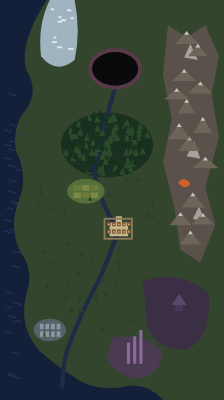
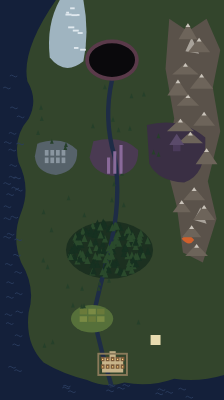
Move the world map's city to the south coast so a run reads as the long road north to the Titan, and repaint the map to match

diff --git a/art/concepts/world-map/index.html b/art/concepts/world-map/index.html
@@ -51,7 +51,7 @@ section p{margin:0 0 10px;color:var(--mute);font-size:13px}
 <body>
 <main>
 <h1>The world map</h1>
-<p class="sub">First shown when the Titan falls at the end of A Tale of Valor's prologue, then between acts. North is up. The city (unnamed) is the centre, Wild's Edge just north of it, and the river runs out of the Titan's crater, through the forest and the city, to the Necropolis at its mouth. The layout is the same in every treatment; only the drawing changes. Docs: <code>docs/world-map.md</code>.</p>
+<p class="sub">First shown when the Titan falls at the end of A Tale of Valor's prologue, then between acts. North is up. The city (unnamed) is on the south coast where the run starts, Wild's Edge just north of it, and every other place lies on the road north to the Titan's crater. The river runs out of the crater, through the forest, down to the city at its mouth. The layout is the same in every treatment; only the drawing changes. Docs: <code>docs/world-map.md</code>.</p>
 <div class="names" id="moments">Moment: </div>
 <div class="names" id="cityNames">The city: </div>
 <div class="names" id="paints">Painting (A): </div>
@@ -61,27 +61,27 @@ section p{margin:0 0 10px;color:var(--mute);font-size:13px}
 <script>
 const ART = '../../../';
 const W = 360, H = 640;
-let CRATER = { x: 185, y: 110 };
-let CITY = { x: 190, y: 366 };
+let CRATER = { x: 180, y: 96 };
+let CITY = { x: 181, y: 582 };
 // seal: one of the six base seals. cycle: the Cycle that grants it. lost: the Cycle it's lost in.
 let PLACES = [
-  { id: 'wildsEdge', name: "Wild's Edge", x: 138, y: 304, seal: true, lost: 3, anchor: 'end', lx: 14, ly: -10 },
-  { id: 'forbiddenForest', name: 'Forbidden Forest', x: 172, y: 232, seal: true, ly: -40 },
-  { id: 'stormCoast', name: 'Storm Coast', x: 52, y: 322, seal: true, lx: 2, anchor: 'start', ly: 26 },
-  { id: 'moltenFoundry', name: 'Molten Foundry', x: 296, y: 292, seal: true, anchor: 'end', lx: 8, ly: 22 },
-  { id: 'necropolis', name: 'Necropolis', x: 80, y: 528, seal: true, ly: 26 },
-  { id: 'blightedShrine', name: 'Blighted Shrine', x: 288, y: 492, seal: true, anchor: 'end', lx: 10, ly: 28 },
-  { id: 'holySanctum', name: 'Holy Sanctum', x: 216, y: 440, cycle: 2, anchor: 'start', lx: 12, ly: 4 },
-  { id: 'frozenReach', name: 'Frozen Reach', x: 84, y: 54, cycle: 3, ly: 34 },
-  { id: 'dreamingSpires', name: 'Dreaming Spires', x: 214, y: 566, cycle: 3, ly: 30 },
-  { id: 'thunderAerie', name: 'Thunder Aerie', x: 306, y: 112, cycle: 4, anchor: 'end', lx: 4, ly: 26 },
+  { id: 'wildsEdge', name: "Wild's Edge", x: 148, y: 510, seal: true, lost: 3, anchor: 'end', lx: 16, ly: 4 },
+  { id: 'forbiddenForest', name: 'Forbidden Forest', x: 176, y: 400, seal: true, ly: -34 },
+  { id: 'stormCoast', name: 'Storm Coast', x: 48, y: 410, seal: true, lx: 2, anchor: 'start', ly: 26 },
+  { id: 'moltenFoundry', name: 'Molten Foundry', x: 302, y: 382, seal: true, ly: 28 },
+  { id: 'necropolis', name: 'Necropolis', x: 88, y: 252, seal: true, ly: 32 },
+  { id: 'blightedShrine', name: 'Blighted Shrine', x: 284, y: 238, seal: true, ly: 30 },
+  { id: 'holySanctum', name: 'Holy Sanctum', x: 250, y: 544, cycle: 2, anchor: 'start', lx: 12, ly: 4 },
+  { id: 'frozenReach', name: 'Frozen Reach', x: 72, y: 46, cycle: 3, ly: 30 },
+  { id: 'dreamingSpires', name: 'Dreaming Spires', x: 184, y: 252, cycle: 3, ly: 34 },
+  { id: 'thunderAerie', name: 'Thunder Aerie', x: 308, y: 100, cycle: 4, anchor: 'end', lx: 4, ly: 26 },
 ];
 let byId = Object.fromEntries(PLACES.map((p) => [p.id, p]));
 const BASE = { CRATER, CITY, PLACES };
 // Each painting placed things a little differently; the marks follow the painting
 const PAINT_POS = {
-  'painted-1.png': { crater: [193, 74], city: [193, 356], wildsEdge: [136, 312], forbiddenForest: [180, 200], moltenFoundry: [318, 296], necropolis: [70, 530], blightedShrine: [310, 482], dreamingSpires: [228, 590], frozenReach: [75, 44], stormCoast: [40, 330], holySanctum: [232, 430] },
-  'painted-2.png': { crater: [185, 72], city: [193, 365], wildsEdge: [110, 322], forbiddenForest: [169, 200], moltenFoundry: [312, 286], necropolis: [66, 552], blightedShrine: [300, 500], dreamingSpires: [225, 598], frozenReach: [70, 36], stormCoast: [36, 300], holySanctum: [232, 440] },
+  'painted-1.png': { crater: [180, 68], city: [177, 610], wildsEdge: [141, 530], forbiddenForest: [177, 421], dreamingSpires: [193, 249], necropolis: [72, 241], blightedShrine: [289, 219], moltenFoundry: [312, 394], frozenReach: [70, 30], stormCoast: [36, 400], holySanctum: [257, 570] },
+  'painted-2.png': { crater: [180, 64], city: [212, 590], wildsEdge: [146, 540], forbiddenForest: [177, 402], dreamingSpires: [193, 236], necropolis: [72, 236], blightedShrine: [298, 226], moltenFoundry: [314, 430], frozenReach: [84, 34], stormCoast: [40, 400], holySanctum: [270, 530] },
 };
 function placeFor(t) {
   const o = t.key === 'a' ? PAINT_POS[PAINT] : {};
@@ -103,13 +103,13 @@ const PAINTS = ['painted-1.png', 'painted-2.png'];
 
 const visible = (p, m) => !p.cycle || m.cycle >= p.cycle;
 const isLost = (p, m) => p.lost && m.cycle >= p.lost;
-const RIVER = 'M185,140 Q168,200 150,270 Q158,320 190,366 Q172,420 158,450 Q130,500 108,560 Q100,590 100,640';
-const LAND = 'M75,0 L360,0 L360,640 L262,640 Q236,612 204,618 Q152,628 120,604 Q86,582 62,560 Q30,522 42,472 Q56,432 32,402 Q14,362 30,322 Q46,282 26,242 Q18,202 44,172 Q62,142 42,112 Q30,70 75,0 Z';
-const RANGE = [[300,60],[318,80],[296,120],[322,140],[300,170],[326,200],[304,230],[330,260],[310,320],[326,350],[306,380],[284,150],[288,210],[290,350]];
+const RIVER = 'M180,128 Q166,190 184,250 Q196,320 176,400 Q160,460 150,505 Q162,560 180,640';
+const LAND = 'M90,0 L360,0 L360,600 Q320,612 280,606 Q240,620 200,612 Q170,622 140,608 Q100,598 70,580 Q40,550 46,500 Q58,460 34,420 Q18,380 34,340 Q50,300 30,260 Q20,220 46,190 Q62,160 44,130 Q34,80 90,0 Z';
+const RANGE = [[302,50],[320,72],[298,110],[324,130],[302,160],[328,190],[306,220],[332,250],[312,310],[328,340],[308,370],[286,140],[290,200],[292,330],[316,400]];
 
 // Seeded scatter so every render places trees the same
 function rng(seed) { let s = seed; return () => { s = (s * 16807) % 2147483647; return s / 2147483647; }; }
-const trees = (() => { const r = rng(3), out = []; for (let i = 0; i < 70; i++) { const a = r() * Math.PI * 2, d = Math.sqrt(r()); out.push([172 + Math.cos(a) * 66 * d, 232 + Math.sin(a) * 44 * d]); } return out; })();
+const trees = (() => { const r = rng(3), out = []; for (let i = 0; i < 70; i++) { const a = r() * Math.PI * 2, d = Math.sqrt(r()); out.push([176 + Math.cos(a) * 62 * d, 400 + Math.sin(a) * 40 * d]); } return out; })();
 const stars = (() => { const r = rng(9), out = []; for (let i = 0; i < 90; i++) out.push([r() * W, r() * H, r()]); return out; })();
 
 // The Titan: the title's falling body lying in the crater, the magenta under it
@@ -160,11 +160,11 @@ function road(m, t) {
   return out;
 }
 function city(t) {
-  return `${t.cityGlyph(CITY)}<text class="lbl big" x="${CITY.x}" y="${CITY.y + 30}" text-anchor="middle" fill="${t.text}" stroke="${t.halo}">${CITY_NAME}</text>`;
+  return `${t.cityGlyph(CITY)}<text class="lbl big" x="${CITY.x}" y="${CITY.y - 22}" text-anchor="middle" fill="${t.text}" stroke="${t.halo}">${CITY_NAME}</text>`;
 }
 function winter(m, t) {
   if (!m.winter) return '';
-  return `<defs><radialGradient id="snow${t.key}" cx="25%" cy="5%" r="70%"><stop offset="0" stop-color="${t.snow}" stop-opacity=".85"/><stop offset=".6" stop-color="${t.snow}" stop-opacity=".45"/><stop offset="1" stop-color="${t.snow}" stop-opacity="0"/></radialGradient></defs>
+  return `<defs><radialGradient id="snow${t.key}" cx="30%" cy="0%" r="100%"><stop offset="0" stop-color="${t.snow}" stop-opacity=".85"/><stop offset=".7" stop-color="${t.snow}" stop-opacity=".45"/><stop offset="1" stop-color="${t.snow}" stop-opacity="0"/></radialGradient></defs>
     <path d="${LAND}" fill="url(#snow${t.key})"/>`;
 }
 function overlays(m, t) {
@@ -213,7 +213,7 @@ const CHART = {
     <path d="${RIVER}" fill="none" stroke="#5a7090" stroke-width="2.5"/>
     ${RANGE.map(([x, y]) => `<path d="M${x - 13},${y + 9} L${x},${y - 9} L${x + 13},${y + 9}" fill="#e9dfc6" stroke="#2a2118" stroke-width="1.4"/><path d="M${x},${y - 9} L${x + 5},${y + 9}" stroke="#2a2118" stroke-width=".8"/>`).join('')}
     ${trees.map(([x, y]) => `<path d="M${x.toFixed(1)},${(y - 5).toFixed(1)} L${(x + 3).toFixed(1)},${(y + 2).toFixed(1)} L${(x - 3).toFixed(1)},${(y + 2).toFixed(1)} Z" fill="#4a5a3a"/>`).join('')}
-    <path d="M286,292 q10,-12 20,2" fill="none" stroke="#a8341c" stroke-width="2"/>
+    <path d="M292,382 q10,-12 20,2" fill="none" stroke="#a8341c" stroke-width="2"/>
     <text x="22" y="470" transform="rotate(-90 22 470)" style="font:italic 11px Georgia,serif;letter-spacing:.3em" fill="#5a6a68">THE WESTERN SEA</text>`,
 };
 const TREATMENTS = [

diff --git a/docs/world-map.md b/docs/world-map.md
@@ -30,40 +30,41 @@ board, a cursor on where you are, place names, and nothing to manage.
 
 ## 2. The layout
 
-North is up. The board is portrait, sized to the phone.
+North is up. The board is portrait, sized to the phone. **The city is at the bottom and
+everything else lies north of it** (2026-10-20, per user direction, replacing a first draft with
+the city at the centre: a city in the middle made a run read as circling it). The game's own
+first omen already says the shape: *"It's a long road to the Titan. Our journey begins here."*
 
 | Where | Place | Why there |
 |---|---|---|
-| **Centre** | **The city** (unnamed, §6) | Where everything starts. It sits at a **ford on the river**, which is why a city is there at all. |
-| Just **north** of the city | **Wild's Edge** | Where the farmland stops and the wild begins: the city's own edge, close enough to walk to for a hunting job (the prologue). Every type walks here because it's the crossroads. |
-| **North**, past Wild's Edge | **Forbidden Forest** | Chapter 3's forest, on the road north. The river runs through it. Nature, Beast, Light. |
-| **Far north**, centre | **The Threshold**: the Titan's crater | Where it fell (`lore.md` "The fall"). Ren goes north after the Herald, so the Titan is north. The river rises here: **"the river runs black"** the morning after (`stories.md` §11) because it flows out of the crater, through the forest, past Wild's Edge and through the city. |
-| **West** coast | **Storm Coast** | The open sea is west, so the weather comes ashore here. Storm, Water, Stone. |
-| **South-west**, at the river's mouth | **Necropolis** | The dead city at the end of the river the living city sits on. Proposed as the old capital (§7). Spirit, Frost. |
-| **East** | **Molten Foundry** | In a canyon of the eastern range: furnaces want ore and a mountain. Fire, Mech, Iron. Chapter 4's surviving town is on the road east toward it. |
-| **South-east** | **Blighted Shrine** | Dark badlands below the end of the range, far from the river and the roads. Shadow, Arcane, Mind. |
-| **Far north-west**, a frozen bay | **Frozen Reach** (Cycle III) | The northern sea, where ships go out and don't come back. In Cycle III the Long Winter **spreads south from here** and buries Wild's Edge, which is why Act 1 moves to the Reach (`cycles.md` §3). |
+| **South coast**, centre bottom | **The city** (unnamed, §6) | Where everything starts: a port at the **river's mouth**, which is why a city is there at all. Every road leaves it going north. |
+| Just **north** of the city | **Wild's Edge** | Where the farmland stops and the wild begins: the city's own edge, close enough to walk to for a hunting job (the prologue). Every type walks here because it's the threshold of the wild. |
+| **Middle**, up the river | **Forbidden Forest** | Chapter 3's forest, on the road north. The river runs through it. Nature, Beast, Light. |
+| **West** coast, middle | **Storm Coast** | The open sea is west, so the weather comes ashore here. Storm, Water, Stone. |
+| **East**, in the range | **Molten Foundry** | In a canyon of the eastern range: furnaces want ore and a mountain. Fire, Mech, Iron. Chapter 4's surviving town is on the road east toward it. |
+| **North-west**, the cold uplands | **Necropolis** | High and cold, close enough to the crater to be the Titan's: Spirit, and the Frost its omen doesn't explain until it's this far north. |
+| **North-east**, below the peaks | **Blighted Shrine** | Dark badlands near the crater, where the light gives out first. Shadow, Arcane, Mind. |
+| **Top**, centre | **The Threshold**: the Titan's crater | Where it fell (`lore.md` "The fall"), at the end of the road. Ren goes north after the Herald, so the Titan is north. The river rises here: **"the river runs black"** the morning after (`stories.md` §11) because it flows out of the crater, through the forest and Wild's Edge, down to the city. |
+| **Far north-west**, a frozen bay | **Frozen Reach** (Cycle III) | The northern sea, where ships go out and don't come back. In Cycle III the Long Winter **spreads south from here** over the whole north and as far as Wild's Edge, which is why Act 1 moves to the Reach (`cycles.md` §3). |
 | **North-east**, the range's high peak | **Thunder Aerie** (Cycle IV) | The tallest peak of the same eastern range as the Foundry. |
-| **Just south** of the city | **Holy Sanctum** (Cycle II) | Survivors raised it (`cycles.md` §3), so it's built next to the people who raised it. |
-| **Far south**, misty highlands | **Dreaming Spires** (Cycle III) | The farthest place from the Titan, quiet enough to dream in. Mind, Arcane, Spirit. |
+| **Beside the city** | **Holy Sanctum** (Cycle II) | Survivors raised it (`cycles.md` §3), so it's built next to the people who raised it. |
+| **Just below the crater**, a misty plateau | **Dreaming Spires** (Cycle III) | Proposed: *built by someone asleep* is the Titan, asleep after the seal. The nearest place to it dreams its dreams. Mind, Arcane, Spirit. |
 
 Three things this layout gives without adding a rule:
 
-- **The river is the story's spine.** Crater → forest → Wild's Edge → city → Necropolis → sea.
-  Whatever the Titan does to the land, the river carries home. One line on the map explains
-  chapter 2's black river, why the city is in danger, and why the dead city is at its end.
-- **The seals ring the Titan.** The six base seals (Wild's Edge, Forest, Coast, Foundry,
-  Necropolis, Shrine) stand on every side of the crater, and each one's chain can be drawn to it.
-  That's the Pact Seal screen's picture laid out on the land.
-- **The roads leave from the city.** A run's random draw of Locations reads as setting out from
-  home in a different direction each act, not a teleport.
+- **A run walks north.** Act 1 at the city's edge, the Guardians in the middle bands, the
+  Threshold at the top. Whatever three places a run draws, each is further up the map than home,
+  and the finale is the top of the page.
+- **The river is the story's spine.** Crater → forest → Wild's Edge → city → sea. Whatever the
+  Titan does to the land, the river carries home. One line on the map explains chapter 2's black
+  river and why the city is in danger.
+- **The seals fan out below the Titan.** The six base seals (Wild's Edge, Forest, Coast, Foundry,
+  Necropolis, Shrine) stand between the city and the crater, and each one's chain runs up to it:
+  the seals are literally what stands between the Titan and home.
 
-**A tension to decide.** The user asked for a central city, and the seals would like the Titan at
-the centre. The layout above puts the city at the centre of the board and the crater in the
-north, a day's walk past Wild's Edge, so the seal chains converge north instead of radiating out.
-The alternative is to put the crater at the centre and the city just south of it, which makes the
-seal picture cleaner but puts the city in the Titan's shadow. Proposed: city centre. The prologue
-needs the Titan close enough to see fall from Wild's Edge, and both layouts give that.
+**What it gives up.** The draw still ignores distance, so a run can go Coast → Shrine → Forest,
+and "north" is a direction of the run as a whole, not of every act. The road is drawn however it
+goes (§7).
 
 ## 3. When it's shown
 
@@ -121,7 +122,7 @@ in magenta.
 Every treatment shows the same three moments: the prologue reveal, a Classic run entering
 Act 3, and Cycle III's Long Winter. The city's name candidates (§6) toggle on the page too.
 
-**How the paintings were made** (36 PixelLab generations): the layout was laid by hand as flat
+**How the paintings were made** (66 PixelLab generations across two layouts): the layout was laid by hand as flat
 shapes (`layout-rich.svg`/`.png`), then given to `create_image_pro` at 224x400 as a "composition
 and layout only" reference (15 generations each, seeds 8 and 29). Pixflux img2img off the same
 layout at strengths 60–160 came out flat or toy-like and was dropped. The Pro paintings moved a
@@ -135,17 +136,17 @@ pacts are made: the Guild could be headquartered here), **Lanternfall**, **Kings
 
 ## 7. Open — do not silently resolve
 
-- **City at the centre, or the Titan** (§2).
 - **Whether the map replaces the Pact Seal screen** or only joins the arrival (§3.3).
 - **What the city is in play.** It has no node. Candidates: it's where the Guild Hall is
   (the funnel every act is the city's guild, met on the road); it's where a Story chapter
   returns between acts; or it's only a picture.
-- **The Necropolis as the old capital**: a lore proposal that would make the river a line from
-  the living city to the dead one. It also touches `lore.md` §2's open item (the fall has no age
-  before it), since an old capital implies an age before the Titan.
+- **The Dreaming Spires as the Titan's dream** (§2): a lore proposal for its omen.
 - **Distances.** The run's draw ignores geography: Act 2 can be the Coast and Act 3 the Shrine,
-  across the whole map. Proposed: keep the draw and draw the road however long it is. The
-  alternative (the draw prefers neighbours) changes run variety for a picture and isn't
-  recommended.
+  across the whole map. Proposed: keep the draw and draw the road however long it is. Two
+  alternatives: the draw prefers neighbours (changes run variety for a picture; not
+  recommended), or the draw climbs, each act drawn from places further north than the last
+  (Act 2 from the middle band, Act 3 from the upper one). Climbing would make "the long road
+  north" literally true and give each band a difficulty reading, at the cost of fixing which
+  places can be Act 2.
 - **Chapter 4's town** east of the city: whether it gets a name and a mark.
 - **Where the Wardens show**, from Cycle II.
